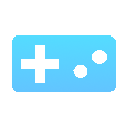
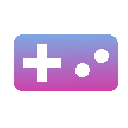
Added TheiF resources

diff --git a/css/main_custom.css b/css/main_custom.css
@@ -185,15 +185,15 @@ input {
 }
 
 .menuItem:hover {
-  background: -webkit-gradient(linear, left bottom, right top, from(#54dcff), to(#68bbff));
-  background: linear-gradient(to right top, #54dcff, #68bbff);
+  background: -webkit-gradient(linear, left bottom, right top, from(#54dcff), to(#FF0186));
+  background: linear-gradient(to right top, #54dcff, #FF0186);
   -webkit-transition: background 280ms;
   transition: background 280ms;
 }
 
 .menuItem:active {
-  background-image: -webkit-gradient(linear, left bottom, right top, from(#54dcff), to(#68bbff));
-  background-image: linear-gradient(to right top, #54dcff, #68bbff);
+  background-image: -webkit-gradient(linear, left bottom, right top, from(#54dcff), to(#FF0186));
+  background-image: linear-gradient(to right top, #54dcff, #FF0186);
 }
 
 .chatItem {
@@ -270,8 +270,8 @@ input {
   -webkit-transform: translate(-50%, -50%);
           transform: translate(-50%, -50%);
   z-index: 9;
-  background-image: -webkit-gradient(linear, right top, left top, from(#54dcff), color-stop(#68bbff), color-stop(#ffa754), to(#ff7268));
-  background-image: linear-gradient(to left, #54dcff, #68bbff, #ffa754, #ff7268);
+  background-image: -webkit-gradient(linear, right top, left top, from(#54dcff), color-stop(#FF0186), color-stop(#54dcff), to(#FF0186));
+  background-image: linear-gradient(to left, #54dcff, #FF0186, #54dcff, #FF0186);
   background-clip: text;
   -webkit-background-clip: text;
   font-size: 50px;
@@ -492,13 +492,13 @@ div > #commMap {
   width: 30px;
   height: 30px;
   clip-path: circle();
-  background: linear-gradient(to right top, #54dcff, #68bbff);
+  background: linear-gradient(to right top, #54dcff, #FF0186);
   cursor: pointer;
 }
 
 .inputGrey {
-  background: -webkit-gradient(linear, left bottom, right top, from(#54dcff), to(#68bbff));
-  background: linear-gradient(to right top, #54dcff, #68bbff);
+  background: -webkit-gradient(linear, left bottom, right top, from(#54dcff), to(#FF0186));
+  background: linear-gradient(to right top, #54dcff, #FF0186);
 }
 
 .inputGrey2 {
@@ -946,14 +946,14 @@ input[type=color] {
 }
 
 #menuBtnBrowser {
-  color: #FF5722;
+  color: #ff6cb8;
 }
 
 #menuBtnBrowser:hover {
-  color: #801e00;
-  background-color: #FF5722 !important;
-  -webkit-box-shadow: inset 0 -7px 0 0 #801e00 !important;
-          box-shadow: inset 0 -7px 0 0 #801e00 !important;
+  color: #FF0186;
+  background-color: #ff6cb8 !important;
+  -webkit-box-shadow: inset 0 -7px 0 0 #FF0186 !important;
+          box-shadow: inset 0 -7px 0 0 #FF0186 !important;
 }
 
 #menuBtnRanked {
@@ -979,14 +979,14 @@ input[type=color] {
 }
 
 #menuBtnJoin {
-  color: #FF9800;
+  color: #6797ff;
 }
 
 #menuBtnJoin:hover {
-  color: #a16100;
-  background-color: #FF9800 !important;
-  -webkit-box-shadow: inset 0 -7px 0 0 #a16100 !important;
-          box-shadow: inset 0 -7px 0 0 #a16100 !important;
+  color: #2351b4;
+  background-color: #6797ff !important;
+  -webkit-box-shadow: inset 0 -7px 0 0 #2351b4 !important;
+          box-shadow: inset 0 -7px 0 0 #2351b4 !important;
 }
 
 #customizeButton {

diff --git a/css/_configs.scss b/css/_configs.scss
@@ -15,20 +15,20 @@ $dirty-light: #a3a3a3;
 
 
 $gradientColor1 : #54dcff;
-$gradientColor2 : #68bbff;
-$gradientColor3 : #ffa754;
-$gradientColor4 : #ff7268;
+$gradientColor2 : #FF0186; //TheiF Edition
+$gradientColor3 : #54dcff;
+$gradientColor4 : #FF0186;
 $gradientColor5 : #FFFFFF;
 
 
 $purple: #987bff;
 $purple-dark: #592bff;
 
-$orange: #FF5722;
-$orange-dark: #801e00;
+$orange: #ff6cb8;//TheiF Edition
+$orange-dark: #FF0186;//TheiF Edition
 
-$orange2: #FF9800;
-$orange2-dark: #a16100;
+$orange2: #6797ff;
+$orange2-dark: #2351b4;
 
 $green: #8BC34A;
 $green-dark: #458100;
